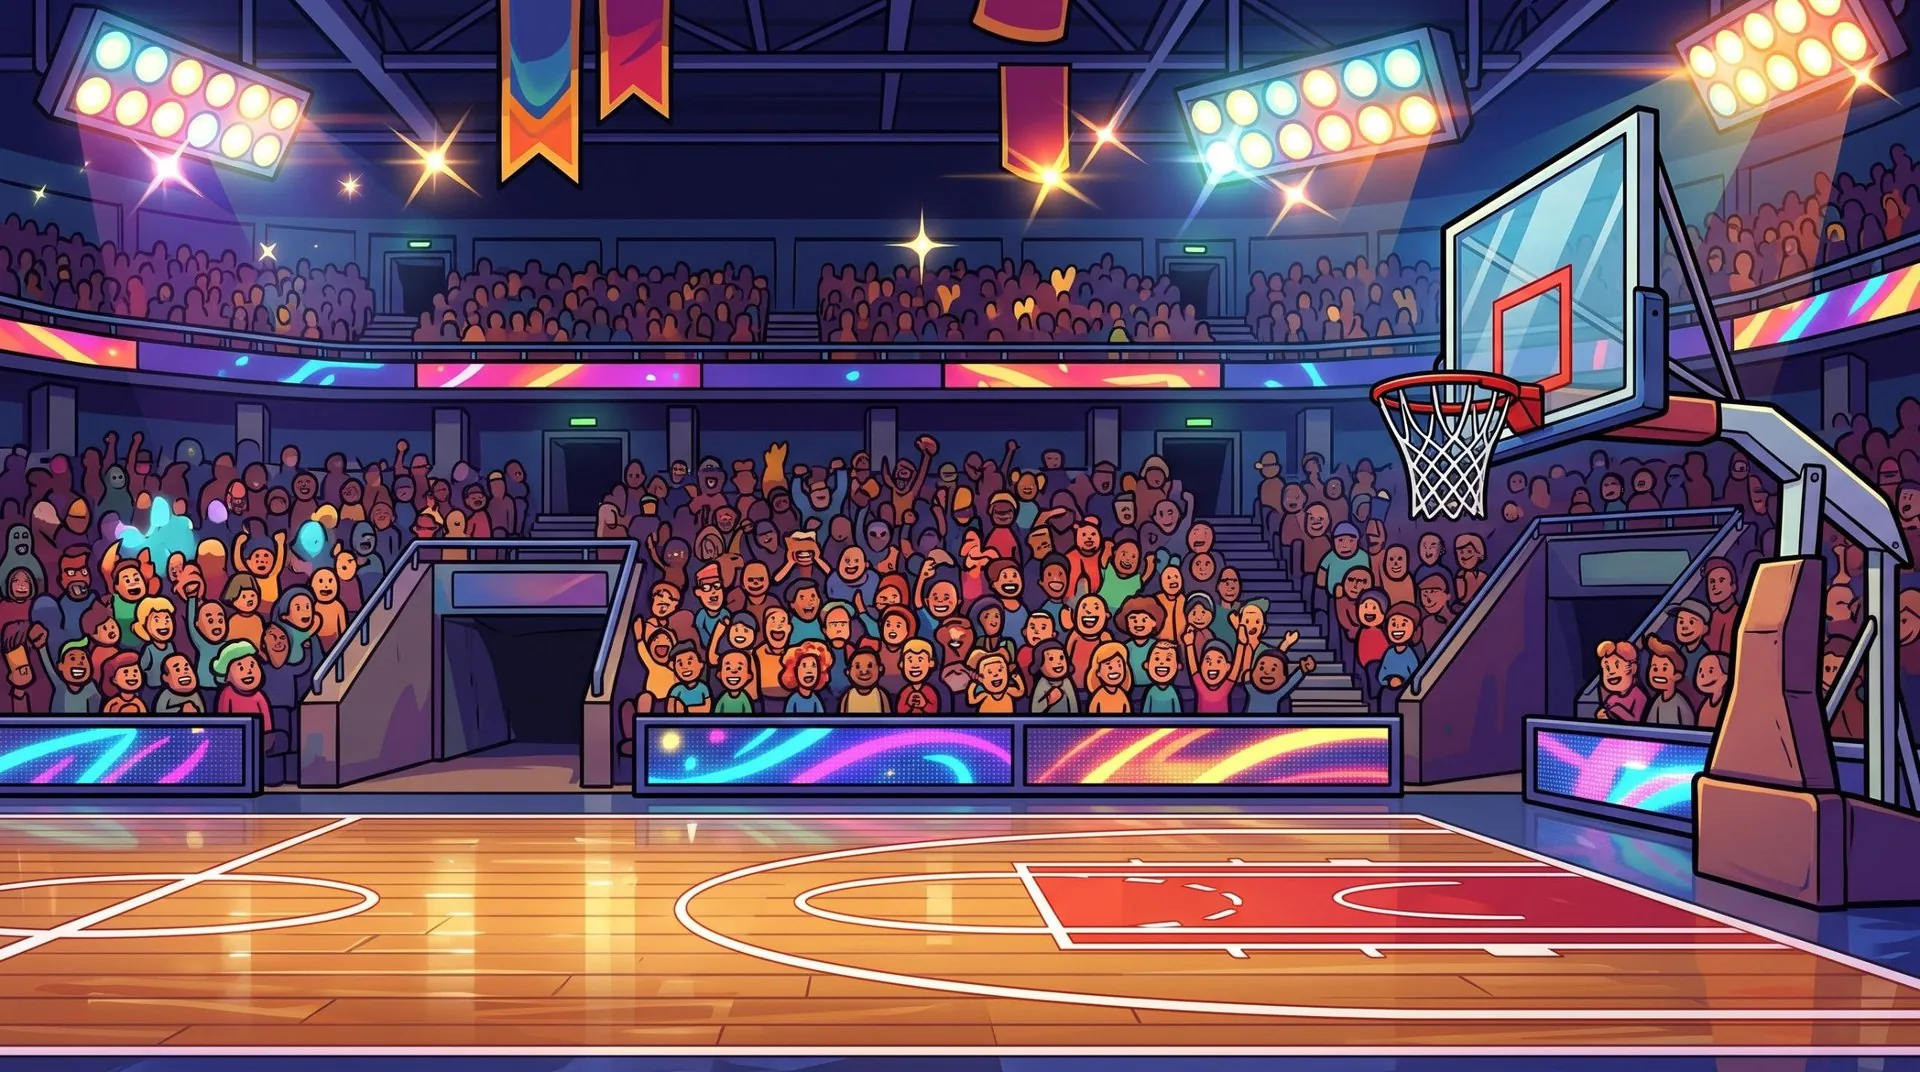
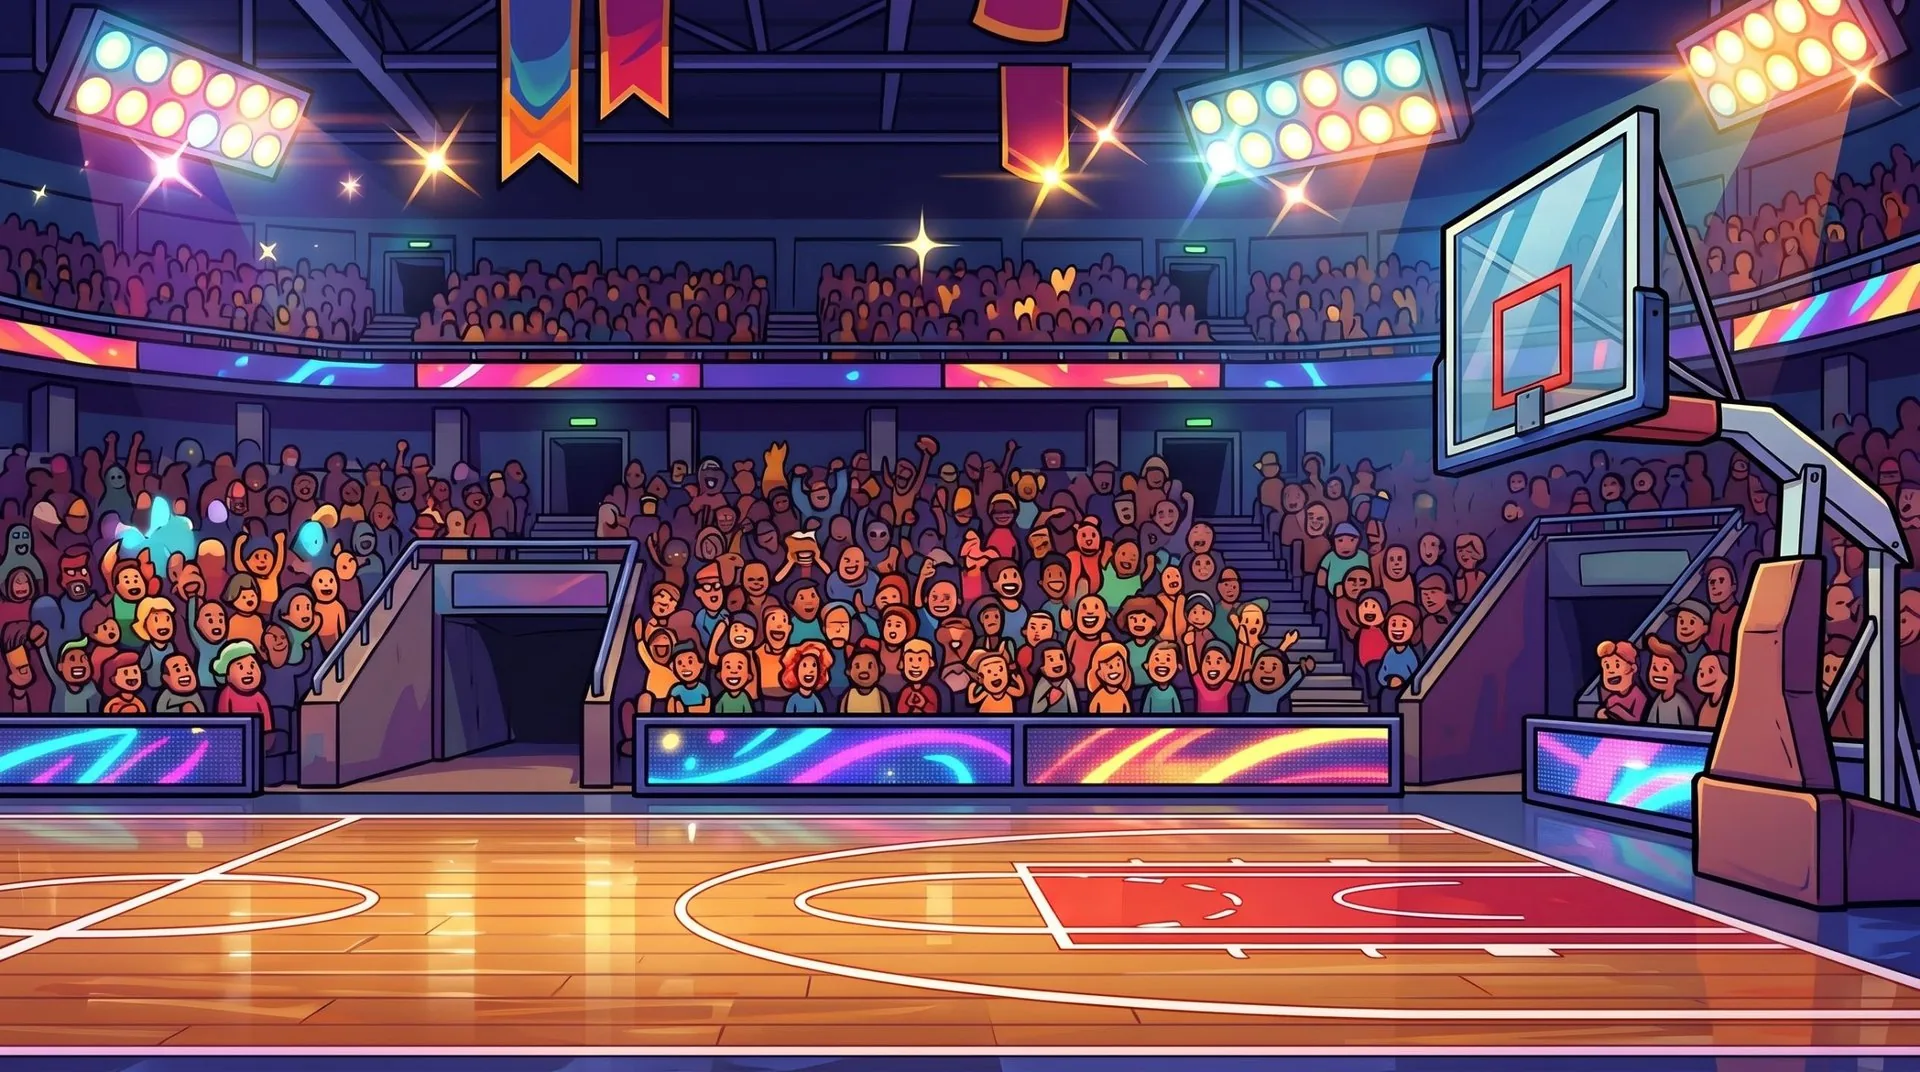
Curry y Dončić dibujados, cancha sin aro y aro completo (red + soporte) superpuesto
Claude-Session: https://claude.ai/code/session_01HctvSPitqtQZkhhHVzkfB8

diff --git a/sw.js b/sw.js
@@ -1,7 +1,7 @@
 // Triples sin internet: guarda la página, los scripts y las librerías.
-const C = 'triples-v3';
+const C = 'triples-v4';
 const CORE = ['/', '/js/data.js', '/js/avatar.js', '/js/court.js', '/js/sensors.js', '/js/arcade.js', '/js/app.js', '/manifest.webmanifest', '/icon.svg',
-  '/assets/arcade/meta.json', '/assets/arcade/cancha.webp', '/assets/arcade/red.webp', '/assets/arcade/bird/1.webp', '/assets/arcade/bird/2.webp', '/assets/arcade/bird/3.webp', '/assets/arcade/bird/4.webp', '/assets/arcade/bird/5.webp', '/assets/arcade/bird/6.webp', '/assets/arcade/jordan/1.webp', '/assets/arcade/jordan/2.webp', '/assets/arcade/jordan/3.webp', '/assets/arcade/jordan/4.webp', '/assets/arcade/jordan/5.webp', '/assets/arcade/jordan/6.webp', '/assets/arcade/kobe/1.webp', '/assets/arcade/kobe/2.webp', '/assets/arcade/kobe/3.webp', '/assets/arcade/kobe/4.webp', '/assets/arcade/kobe/5.webp', '/assets/arcade/kobe/6.webp', '/assets/arcade/lebron/1.webp', '/assets/arcade/lebron/2.webp', '/assets/arcade/lebron/3.webp', '/assets/arcade/lebron/4.webp', '/assets/arcade/lebron/5.webp', '/assets/arcade/lebron/6.webp', '/assets/arcade/manu/1.webp', '/assets/arcade/manu/2.webp', '/assets/arcade/manu/3.webp', '/assets/arcade/manu/4.webp', '/assets/arcade/manu/5.webp', '/assets/arcade/manu/6.webp', '/assets/arcade/shaq/1.webp', '/assets/arcade/shaq/2.webp', '/assets/arcade/shaq/3.webp', '/assets/arcade/shaq/4.webp', '/assets/arcade/shaq/5.webp', '/assets/arcade/shaq/6.webp',
+  '/assets/arcade/meta.json', '/assets/arcade/cancha.webp', '/assets/arcade/red.webp', '/assets/arcade/bird/1.webp', '/assets/arcade/bird/2.webp', '/assets/arcade/bird/3.webp', '/assets/arcade/bird/4.webp', '/assets/arcade/bird/5.webp', '/assets/arcade/bird/6.webp', '/assets/arcade/curry/1.webp', '/assets/arcade/curry/2.webp', '/assets/arcade/curry/3.webp', '/assets/arcade/curry/4.webp', '/assets/arcade/curry/5.webp', '/assets/arcade/curry/6.webp', '/assets/arcade/doncic/1.webp', '/assets/arcade/doncic/2.webp', '/assets/arcade/doncic/3.webp', '/assets/arcade/doncic/4.webp', '/assets/arcade/doncic/5.webp', '/assets/arcade/doncic/6.webp', '/assets/arcade/jordan/1.webp', '/assets/arcade/jordan/2.webp', '/assets/arcade/jordan/3.webp', '/assets/arcade/jordan/4.webp', '/assets/arcade/jordan/5.webp', '/assets/arcade/jordan/6.webp', '/assets/arcade/kobe/1.webp', '/assets/arcade/kobe/2.webp', '/assets/arcade/kobe/3.webp', '/assets/arcade/kobe/4.webp', '/assets/arcade/kobe/5.webp', '/assets/arcade/kobe/6.webp', '/assets/arcade/lebron/1.webp', '/assets/arcade/lebron/2.webp', '/assets/arcade/lebron/3.webp', '/assets/arcade/lebron/4.webp', '/assets/arcade/lebron/5.webp', '/assets/arcade/lebron/6.webp', '/assets/arcade/manu/1.webp', '/assets/arcade/manu/2.webp', '/assets/arcade/manu/3.webp', '/assets/arcade/manu/4.webp', '/assets/arcade/manu/5.webp', '/assets/arcade/manu/6.webp', '/assets/arcade/shaq/1.webp', '/assets/arcade/shaq/2.webp', '/assets/arcade/shaq/3.webp', '/assets/arcade/shaq/4.webp', '/assets/arcade/shaq/5.webp', '/assets/arcade/shaq/6.webp',
   'https://cdn.jsdelivr.net/npm/peerjs@1.5.5/dist/peerjs.min.js', 'https://cdn.jsdelivr.net/npm/qrcode-generator@1.4.4/qrcode.js'];
 
 self.addEventListener('install', (e) => { self.skipWaiting(); e.waitUntil(caches.open(C).then((c) => Promise.all(CORE.map((u) => c.add(u).catch(() => {}))))); });
